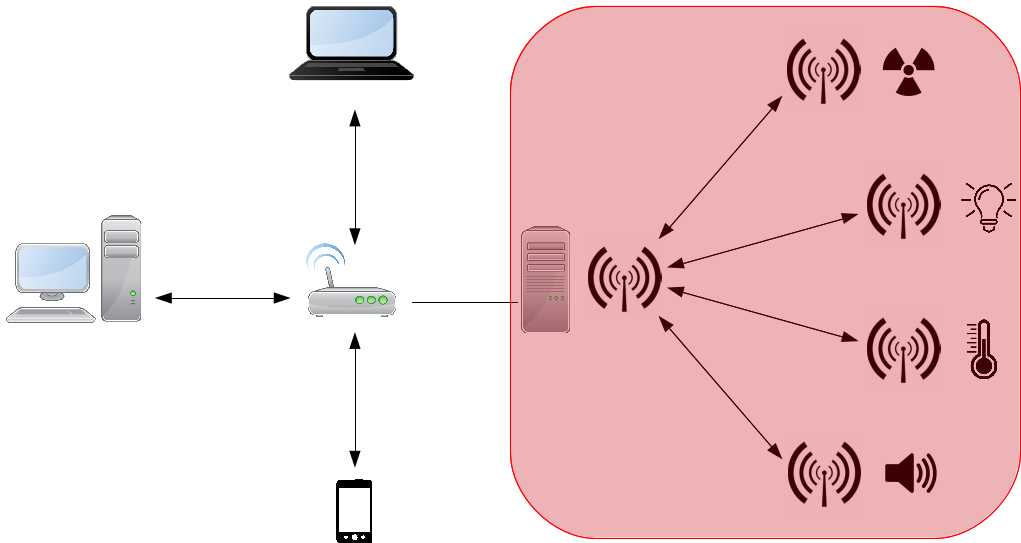
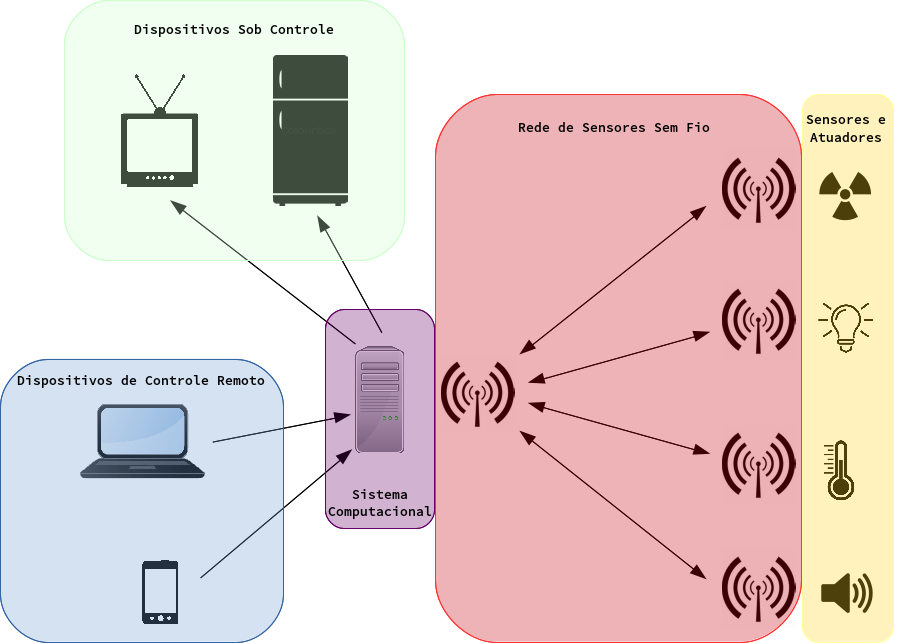
Nova imagem e ante-projeto atualizado

diff --git a/ante-projeto/ante-projeto.tex b/ante-projeto/ante-projeto.tex
@@ -143,9 +143,9 @@ gerenciamento da tecnologia interna e conexões com o mundo a fora.
 Além disso, como a redução de consumo elétrico é um dos principais atrativos em uma casa inteligente, ela normalmente possui
 integrações com fontes de energias renováveis, como a solar e a eólica.
 
-Este conceito relativamente recente ficou conhecido como domótica, cujo termo origina-se da junção das palavras \textit{domus},
-latim para "casa", e robótica, que remete à automação. Sendo assim, domótica pode ser traduzida como automação residencial, porém,
-grande parte de seus conceitos também pode ser aplicada a diversos ambientes como escritórios, indústrias, entre outros.
+O termo domótica origina-se da junção das palavras \textit{domus}, latim para "casa", e robótica, que remete à automação. Sendo
+assim, domótica pode ser traduzida como automação residencial, porém, grande parte de seus conceitos também pode ser aplicada a
+diversos ambientes como escritórios, indústrias, entre outros.
 
 Segundo \citeonline{riley2012}, domótica é um produto ou serviço que proporciona algum nível de ação ou mensagem para o ambiente
 domiciliar, um evento que foi gerado sem a intervenção direta do morador. Um despertador ou um alarme de incêndio são exemplos
@@ -235,16 +235,8 @@ o desenvolvimento de uma RSSF acaba se tornando maior, sendo necessário definir
 
 	\subsection{Objetivos Específicos}
 
-	A figura \ref{figura:wsn} mostra quais elementos compoem a rede, sendo que o objeto de estudo deste trabalho consiste na área
-	destacada em vermelho, ou seja, apenas a comunicação entre os nós da RSSF. Sendo assim, os principais objetivos específicos
-	são:
-
-	\begin{figure}
-		\centering
-		\includegraphics[width=\textwidth]{images/wsn.png}
-		\caption{Esboço de uma Rede de Sensores sem Fio}
-		\label{figura:wsn}
-	\end{figure}
+	A figura \ref{figura:wsn} esboça os elementos de uma automação residencial. O objeto de estudo deste trabalho consiste na
+	parte destacada em vermelho, sendo assim, os principais objetivos específicos são:
 
 	\begin{itemize}
 		\item Rede - definir a topologia, comportamento e roteamento da camada de rede;
@@ -252,6 +244,13 @@ o desenvolvimento de uma RSSF acaba se tornando maior, sendo necessário definir
 		\item Biblioteca - desenvolver uma pequena biblioteca com as funcionalidades necessárias para a solulção;
 		\item Protótipos - montar protótipos dos pontos de comunicação da rede.
 	\end{itemize}
+
+	\begin{figure}[H]
+		\centering
+		\includegraphics[width=\textwidth]{images/wsn.png}
+		\caption{Esboço de uma automação residencial}
+		\label{figura:wsn}
+	\end{figure}
 	%-------------------------------------------------------------------------------
 
 
@@ -262,9 +261,22 @@ o desenvolvimento de uma RSSF acaba se tornando maior, sendo necessário definir
 
 \begin{enumerate}
 
-	\item Revisão Bibliográfica: elaboração da revisão bibliográfica;
+	\item Revisão Bibliográfica: elaboração da revisão bibliográfica cujo os principais temas abordados serão:
+		\begin{itemize}
+			\item Automação;
+			\item Domótica;
+			\item Sensores e Atuadores;
+			\item Comunicação por radiofrequência;
+			\item Rede de Sensores sem Fio;
+		\end{itemize}
 
-	\item Desenvolvimento: desenvolvimento da solução proposta que também envolverá estudos e testes;
+	\item Desenvolvimento:
+		\begin{itemize}
+			\item Detalhamento dos requisitos do sistema;
+			\item Elaboração da arquitetura da solução;
+			\item Desenvolvimento e construção da solução;
+			\item Testes de verificação e validação dos requisitos.
+		\end{itemize}
 
 	\item Monografia: elaboração da monografia do Trabalho de Conclusão de Curso para ser entregue à banca examinadora;
 
@@ -275,7 +287,6 @@ o desenvolvimento de uma RSSF acaba se tornando maior, sendo necessário definir
 \end{enumerate}
 
 As atividades ocorrerão de acordo com o cronograma apresentado na Tabela \ref{tabela:cronograma}.
-
 
 \begin{table}[H]
     \scriptsize
